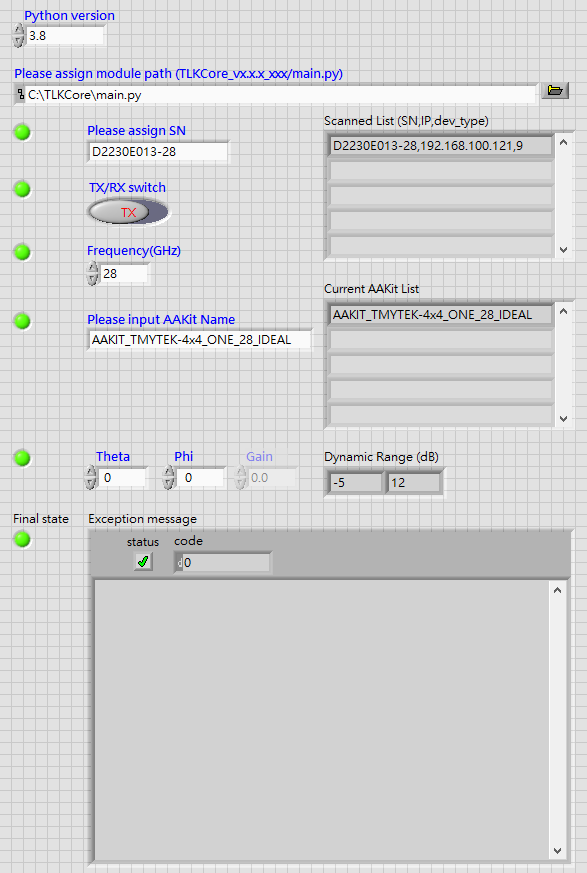
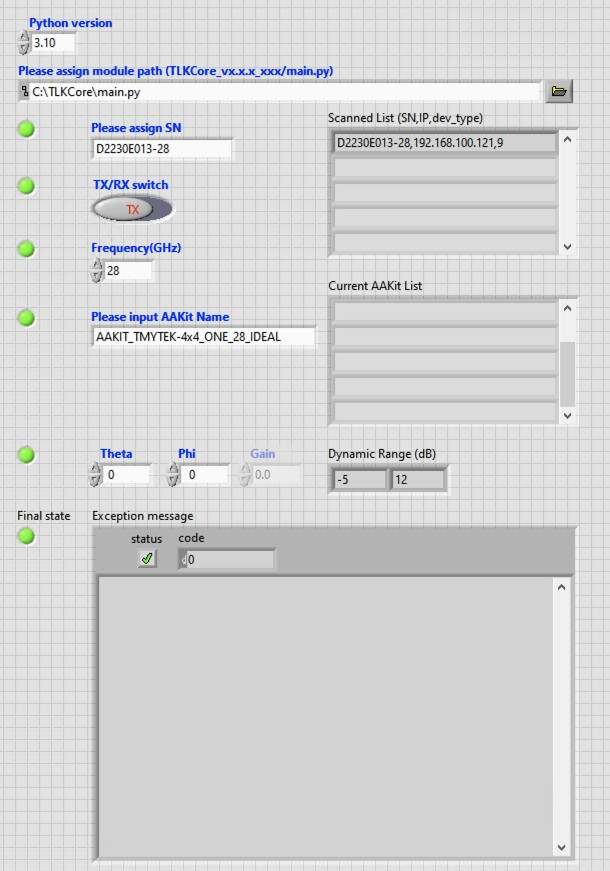
Add install and related markdowns

diff --git a/examples/Python/README.md b/examples/Python/README.md
@@ -14,57 +14,26 @@
 
 ## Prerequisites
 
-1. Check your Python version
-    * Windows: `python -V`
-    * Linux: `python3 -V`
-2. Install Python *3.8 ~ 3.12* with **64 bit** version, the version MUST mapping with [TLKCore_release](/release)
-    * Example gives a default libraries for *Python 3.8* ([python-3.8.10 64-bit download Link](https://www.python.org/downloads/release/python-3810))
-    * Remember to **allow** the option: `Add python.exe to PATH`
+* Python 3 ([Installing Python3](/Install.md#installing-python3))
+* TLKCore ([Installing TLKCore](/Install.md#installing-tlkcore))
+* Files for BBoxOne/Lite
+  1. Audo/Manually create the new directory named **files** to target directory.
 
-        ![python38](/images/Python_Install38.png)
+    * Installed from pip/whl
 
-        ![python310](/images/Python_Install310.png)
+      ![files](/images/TLKCore_release_files.png)
 
-3. Extract zip file.
-4. Install related Python packages from requirements.txt
+    * Portable library
 
-    `pip install -r requirements.txt`
+      ![files](/images/TLKCore_release_files_portable.png)
 
-    * [Hint-1] Under Ubuntu, please install pip
-      * `sudo apt-get update`
-      * `sudo apt install python3-pip`
-        * [PEP-668](https://peps.python.org/pep-0668/)
-        * [error: externally-managed-environment](https://askubuntu.com/questions/1465218/pip-error-on-ubuntu-externally-managed-environment-%C3%97-this-environment-is-extern)
-      * `pip install --break-system-packages --user <username> -r requirements.txt`
-    * [Hint-2] Under Windows, sometimes you might met the following error: ![cpp_build_tool](/images/Python_cpp_build_tools.png)
-      * Please install [Microsoft Visual C++ Redistributable](https://learn.microsoft.com/en-us/cpp/windows/latest-supported-vc-redist?view=msvc-170#latest-microsoft-visual-c-redistributable-version)
-
-5. Create the new directory named **files** to target directory.
-
-   ![files](/images/TLKCore_release_files.png)
-
-6. [BBoxOne/Lite] Copy your calibration & antenna tables into **files/** under the target directory.
+  2. [BBoxOne/Lite] Copy your calibration & antenna tables into **files/** under the target directory.
    * BBox calibration tables -> **{SN}_{Freq}GHz.csv**
    * BBox antenna table -> **AAKIT_{AAKitName}.csv**
 
 ## Introduction of main.py
 
-## Folder structure
-
-```
-├── lib
-│   ├── files
-│   ├── include
-│   ├── lib
-│   ├── tlkcore_fbs
-│   └── tlkcore_ris
-├── lib_tlkcore_cpp
-│   ├── include
-│   ├── lib
-│   └── src
-└── lib_usrp_spi
-    └── include
-```
+Download [main.py](/examples/Python/main.py)
 
 ### Usage
 
@@ -79,7 +48,7 @@ optional arguments:
   --root ROOT           The root path/directory of for log/ & files/
 ```
 
-#### example
+#### Execute
 
    * Windows
 
@@ -161,7 +130,7 @@ if testChannels:
 # Beam control example
 if testBeam:
     if aakit_selected:
-        service.setBeamAngle(sn, gain_max, 0, 0))
+        service.setBeamAngle(sn, gain_max, 0, 0)
     else:
         logger.error("PhiA mode cannot process beam steering")
 

diff --git a/README.md b/README.md
@@ -13,7 +13,7 @@
 
 **TLKCore** is a core service which inside the TMXLAB KIT(TLK/[WEB-TLK](https://web-tlk.tmytek.com/)), it integrates Python built libraries which developing mmWave( n257 / n258 / n260 / n261 ) **beamforming** and **beam steering** applications on **BBox 5G Series(mmwave beamformer)** and **UDBox 5G Series(mmwave Up-down frequency converter)** and other standard products developed by TMYTEK.
 
-The **.pyd** format release is for Windows shared library and **.so** format release is for Linux shared library. Python is a cross-platform programming language, and we provide the basic Python example for all devices/platforms in the release package, and C/C++ examples for Linux platform in **C_Cpp** folder. Please refer to the sample code inside each folder for the specific programming language.
+Python is a cross-platform programming language, and we provide the basic Python example [main.py](/examples/Python/main.py) for all devices/platforms in the release package, and C/C++ examples for Linux platform in **C_Cpp** folder. Please refer to the sample code inside each folder for the specific programming language.
 
 ### Architecture
 
@@ -37,9 +37,9 @@ The **.pyd** format release is for Windows shared library and **.so** format rel
 
 ## Latest Release & Examples
 
-* [[Download Link](/release)]
+* [[Install](/Install.md)]
 
-* [[Doc for function reference](https://tmytek-tlkcore.readthedocs-hosted.com/en/v2.3.0/)]
+* [[Function docs](https://tmytek-tlkcore.readthedocs-hosted.com/en/v2.3.0/)]
 
 * [[Example code for supported languages](/examples/)]
 
@@ -67,7 +67,7 @@ The **.pyd** format release is for Windows shared library and **.so** format rel
 
 ### Python 3
 
-* Install Python *3.8 ~ 3.12* which mapping with [TLKCore_release](/release), and follow reference user guide of [Getting Started with Python Sample Code](/examples/Python/README.md) to make sure your Python environment first.
+* TLKCore support Python *3.8 ~ 3.12*, and follow reference user guide of [Getting Started with Python Sample Code](/examples/Python/README.md) to make sure your Python environment first.
 
 ### Communication environment
 
@@ -153,3 +153,6 @@ Install USB driver if scan interface includes `DevInterface.USB` -> [Installatio
 
 2. Where is my calibration table or antenna table(AA-Kit)?
     * [Action] They shall put on your USB FLASH, copy them to **files/**.
+
+3. Sometimes I can't scanned any device.
+    * [Action] Plug-out & in your RJ-45 cable, and try again.

diff --git a/Install.md b/Install.md
@@ -1,0 +1,51 @@
+# Installing TLKCore
+
+TLKCore provides installation methods, and we break down the installation methods into the following categories
+
+## Online installation via pip (recommended for new users)
+
+Reference from [tlkcore on pypi](https://pypi.org/project/tlkcore/), and launch a system console typing:
+
+    pip install tlkcore
+
+## Offline installation using a downloaded whl file
+
+1. Check your Python version
+    * Windows: `python -V`
+    * Linux: `python3 -V`
+2. Download from [tlkcore whl on pypi](https://pypi.org/project/tlkcore/#files) for your platform and Python version.
+
+## Portable library package (original release method)
+
+The original release method, it `will be deprecated` after v2.3.0 release
+
+1. Check your Python version
+    * Windows: `python -V`
+    * Linux: `python3 -V`
+2. Download from [TLKCore_release](/release)
+3. Extract zip file.
+4. Install dependent Python packages from requirements.txt
+
+    `pip install -r requirements.txt`
+
+    * [Hint-1] Under Ubuntu, please install pip
+      * `sudo apt-get update`
+      * `sudo apt install python3-pip`
+        * [PEP-668](https://peps.python.org/pep-0668/)
+        * [error: externally-managed-environment](https://askubuntu.com/questions/1465218/pip-error-on-ubuntu-externally-managed-environment-%C3%97-this-environment-is-extern)
+      * `pip install --break-system-packages --user <username> -r requirements.txt`
+    * [Hint-2] Under Windows, sometimes you might met the following error: ![cpp_build_tool](/images/Python_cpp_build_tools.png)
+      * Please install [Microsoft Visual C++ Redistributable](https://learn.microsoft.com/en-us/cpp/windows/latest-supported-vc-redist?view=msvc-170#latest-microsoft-visual-c-redistributable-version)
+
+
+# Installing Python3
+
+Install Python *3.8 ~ 3.12* with **64 bit** version
+
+* TLKCore example give a default libraries for *Python 3.10* ([python-3.10.11 64-bit download Link](https://www.python.org/downloads/release/python-31011/))
+
+* Remember to **allow** the option: `Add python.exe to PATH`
+
+    ![python38](/images/Python_Install38.png)
+
+    ![python310](/images/Python_Install310.png)

diff --git a/examples/LabVIEW/README.md b/examples/LabVIEW/README.md
@@ -2,18 +2,20 @@
 
 ## Prerequisites
 
-1. Install Python *3.8 ~ 3.12* which mapping with [TLKCore_release](/release), TLKCore libraries only support **64bit** currently.
-2. According to [Integrating Python Code in LabVIEW](https://www.ni.com/en/support/documentation/supplemental/18/installing-python-for-calling-python-code.html#section-1736000138) to download LabVIEW to maps your Python version. Please download 64bit version not 32bit.
+1. Python 3 ([Installing Python3](/Install.md#installing-python3))
+2. TLKCore ([Installing TLKCore](/Install.md#installing-tlkcore))
+3. According to [Integrating Python Code in LabVIEW](https://www.ni.com/en/support/documentation/supplemental/18/installing-python-for-calling-python-code.html#section-1736000138) to download LabVIEW to maps your Python version. `Please download 64bit version not 32bit`.
    ![labview](/images/table_labview.svg)
 
-3. Extract zip file under the [TLKCore_release](/release) to target directory (*here we download to C:\\*)
-4. Create the new directory named **files** to target directory (*here we rename to C:\\TLKCore\\*).
+4. Download [main.py](/examples/Python/main.py) and create **files** directory.
+
    ![files](/images/TLKCore_release_files.png)
+
 5. [BBoxOne/Lite] Copy your calibration & antenna tables into **files/** under the target directory.
    * BBox calibration tables -> **{SN}_{Freq}GHz.csv**
    * BBox antenna table -> **AAKIT_{AAKitName}.csv**
 
-P.S. The following example executes *LabVIEW 2021 64bit & Pyhton 3.8 64bit* on Windows 10
+P.S. The following example executes *LabVIEW 2025 Q1 64bit & Pyhton 3.10 64bit* on Windows 10
 
 ## LabVIEW sample execution steps
 
